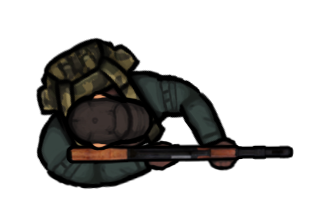
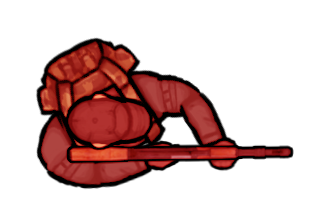
+red enemy

Changed region(s): [[0.115, 0.2029, 0.9489, 0.8986]]

diff --git a/JoysticProgect/index.html b/JoysticProgect/index.html
@@ -28,11 +28,13 @@
 <script>
 
     var bullets;
+    var enemyBullets;
     var ship;
     var speed;
     var stats;
     var cursors;
     var lastFired = 0;
+    var enemyFlag = 0;
 
 
     class Demo extends Phaser.Scene {
@@ -49,6 +51,7 @@
             this.load.plugin('rexvirtualjoystickplugin', url, true);
 
             this.load.image("soldier", "sol.png");
+            this.load.image("enemySoldier", "enemySol.png");
             this.load.image("fire", "crosshair.png");
             this.load.image("bullet", "bullet.png");
         }
@@ -77,6 +80,11 @@
                     button.setVisible(false);
                 }, this);
 
+            //вставка солдата противника
+            this.enemySoldier = this.physics.add.sprite(100, 200, "enemySoldier").setScale(0.3);
+            enemyFlag = 1;
+            this.enemySoldier.body.setAllowGravity(false);
+
             var Bullet = new Phaser.Class({
 
                 Extends: Phaser.GameObjects.Image,
@@ -102,6 +110,19 @@
                     this.setVisible(true);
                 },
 
+                enemyFire: function (x, y, angle)
+                {
+
+                    this.angle=angle;
+
+                    this.setPosition(x, y + 26);
+
+                    this.setActive(true);
+                    this.setVisible(true);
+                },
+
+                //this.physics.add.overlap(this.enemySoldier, bullets, this.gettingTarget, null, this);
+
                 update: function (time, delta)
                 {
                     //this.y -= this.speed * delta;
@@ -124,6 +145,12 @@
                 runChildUpdate: true
             });
 
+            enemyBullets = this.add.group({
+                classType: Bullet,
+                maxSize: 10,
+                runChildUpdate: true
+            });
+
             cursors = this.input.keyboard.createCursorKeys();
 
             speed = Phaser.Math.GetSpeed(300, 1);
@@ -134,12 +161,24 @@
 
             if (cursors.space.isDown && time > lastFired)
             {
-                console.log("123456");
                 var bullet = bullets.get();
 
                 if (bullet)
                 {
                     bullet.fire( this.soldier.x,  this.soldier.y,this.soldier.angle);
+
+                    lastFired = time + 50;
+                }
+            }
+
+            if (enemyFlag == 1)
+            {
+                console.log("enemy spoted");
+                var enBullet = enemyBullets.get();
+
+                if (enBullet)
+                {
+                    enBullet.fire( this.enemySoldier.x,  this.enemySoldier.y,this.enemySoldier.angle);
 
                     lastFired = time + 50;
                 }
@@ -153,7 +192,7 @@
                 this.soldier.angle = this.joyStick.angle;
             }
 
-            // checking map borders
+            // проверка границ карты
             if(
                 (this.soldier.x+ (this.joyStick.force / 50) * Math.cos(this.soldier.angle * Math.PI / 180)>0) &&
                 (this.soldier.x+ (this.joyStick.force / 50) * Math.cos(this.soldier.angle * Math.PI / 180)<800) &&
@@ -187,6 +226,11 @@
 
         }
 
+        gettingTarget (enemy, bullet)
+        {
+            enemy.disableBody(true, true);
+        }
+
          fireClick(){
             console.log('lololohka');
         }
@@ -212,7 +256,14 @@
         width: 800,
         height: 600,
         scene: Demo,
-        backgroundColor: 0x333333
+        backgroundColor: 0x333333,
+        physics: {
+            default: 'arcade',
+            arcade: {
+                gravity: { y: 300 },
+                debug: false
+            }
+        }
     };
 
     var game = new Phaser.Game(config);
